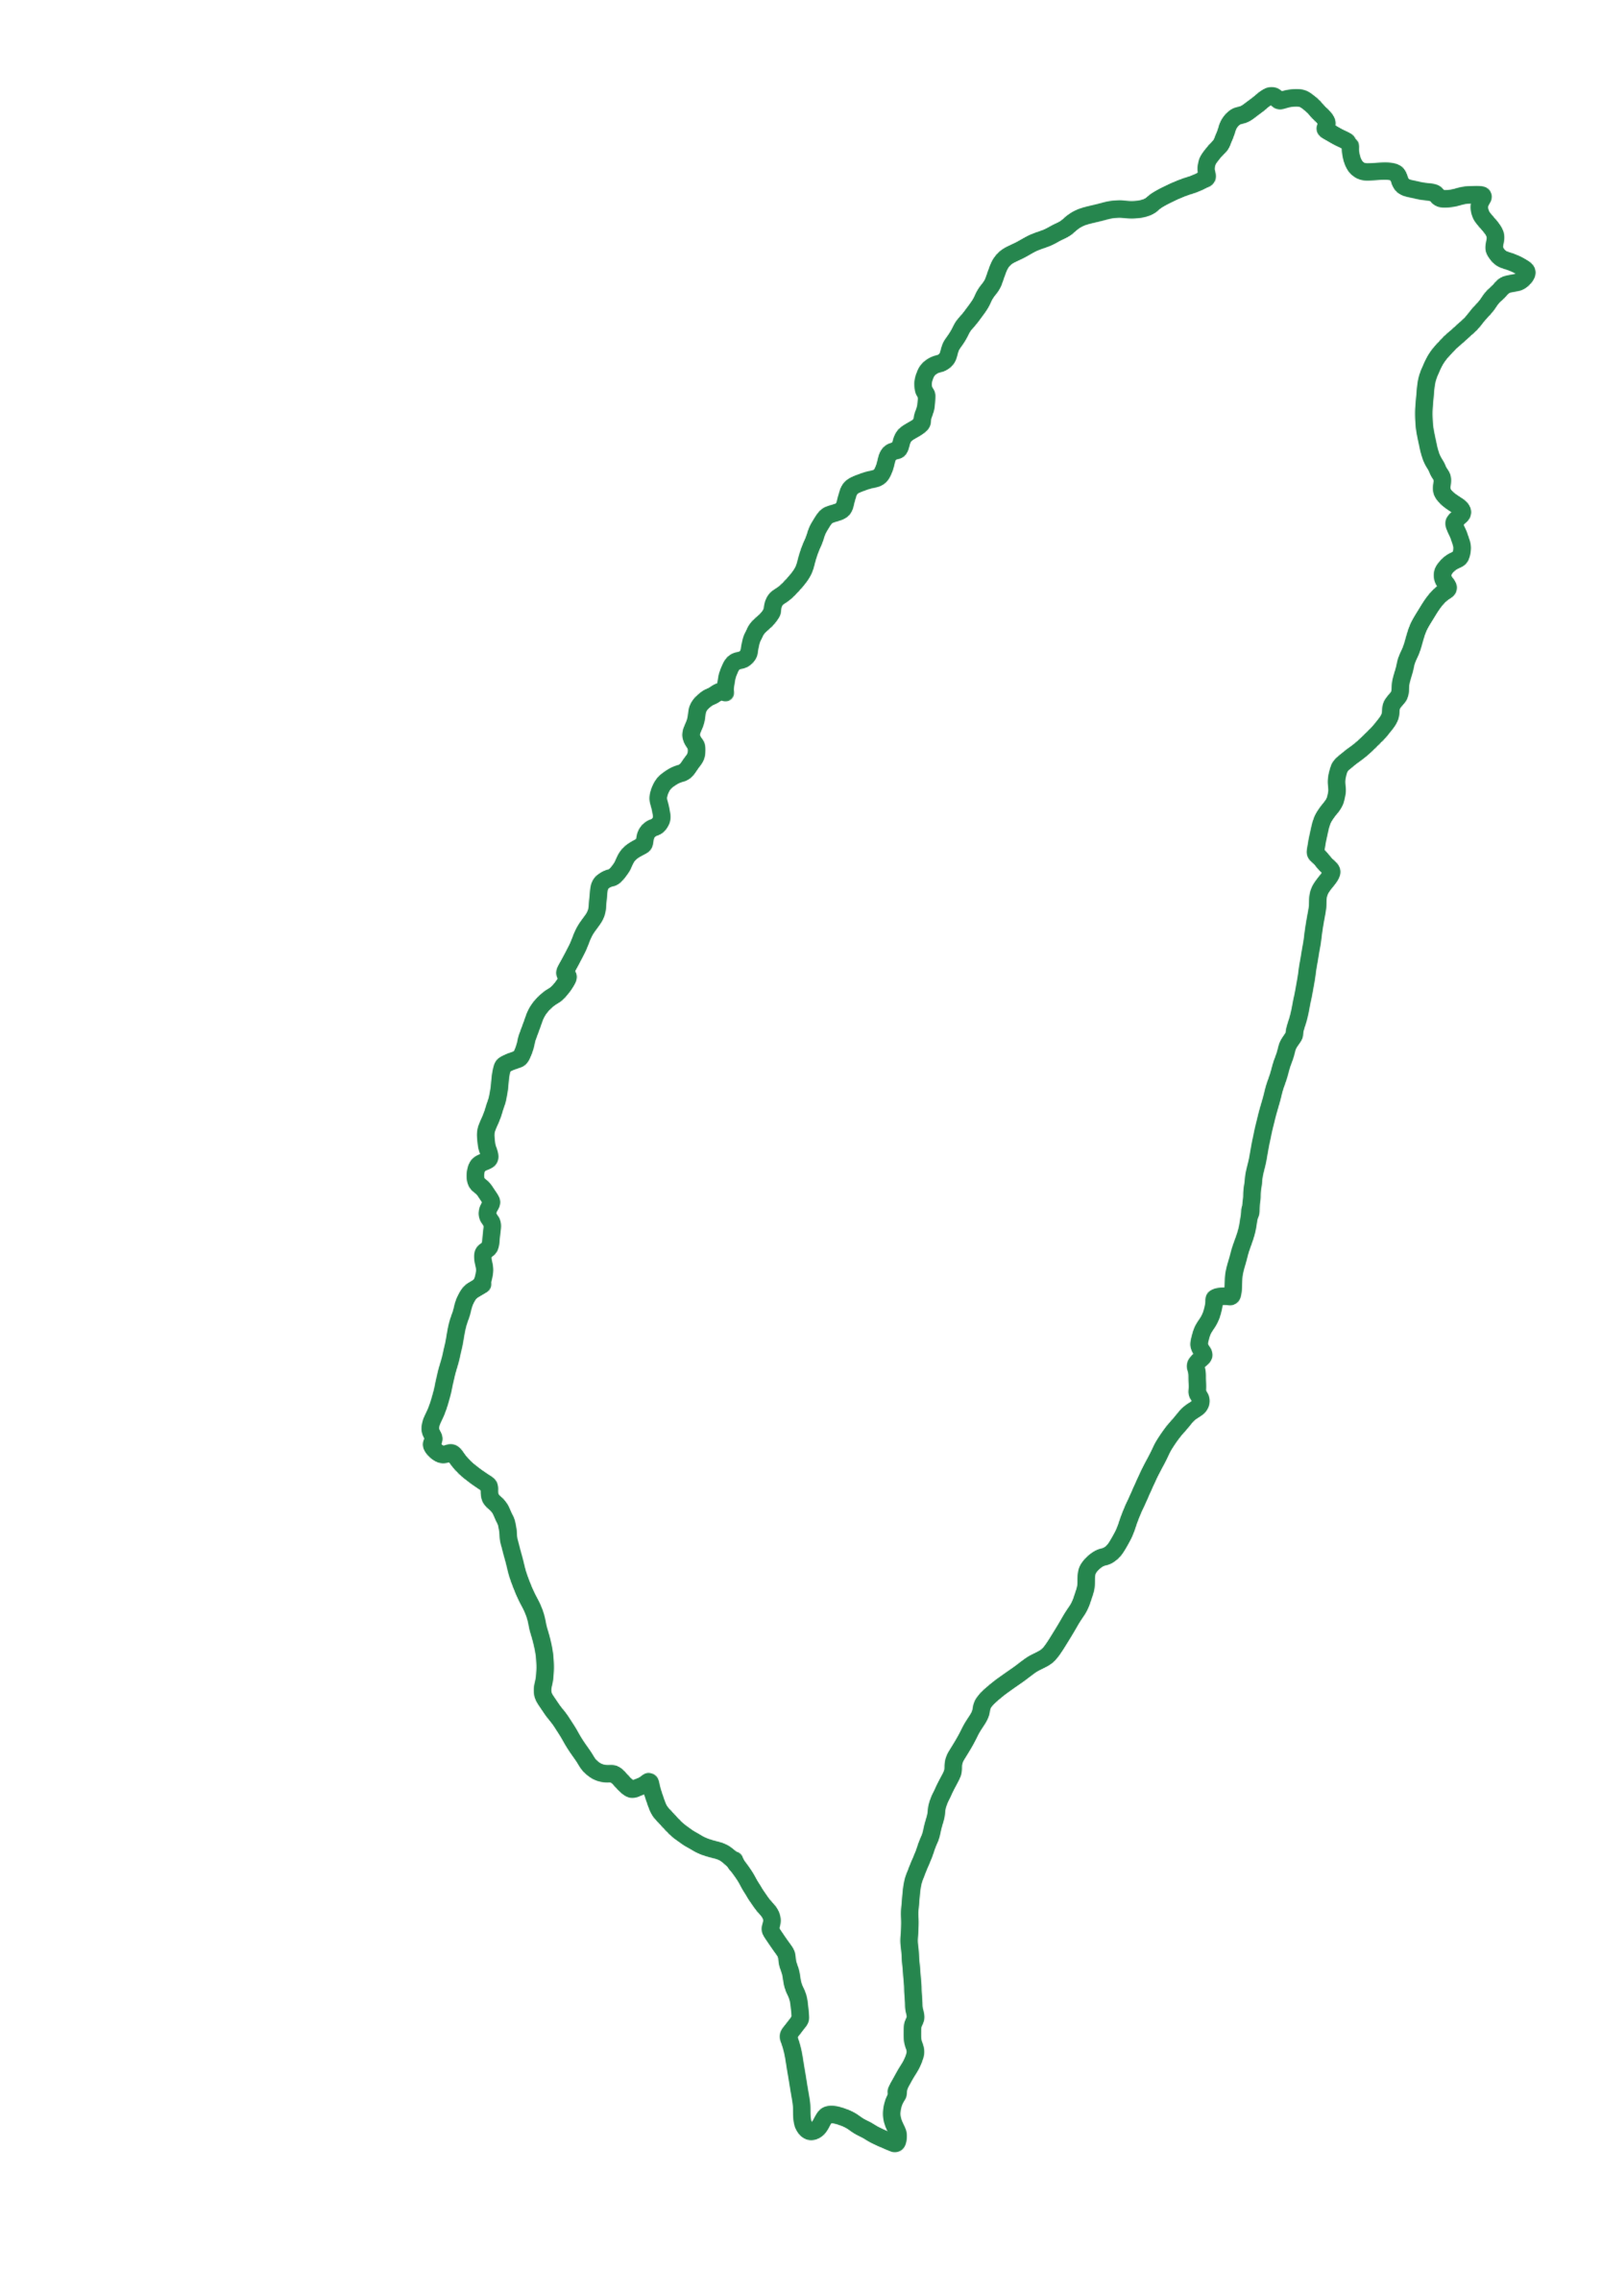
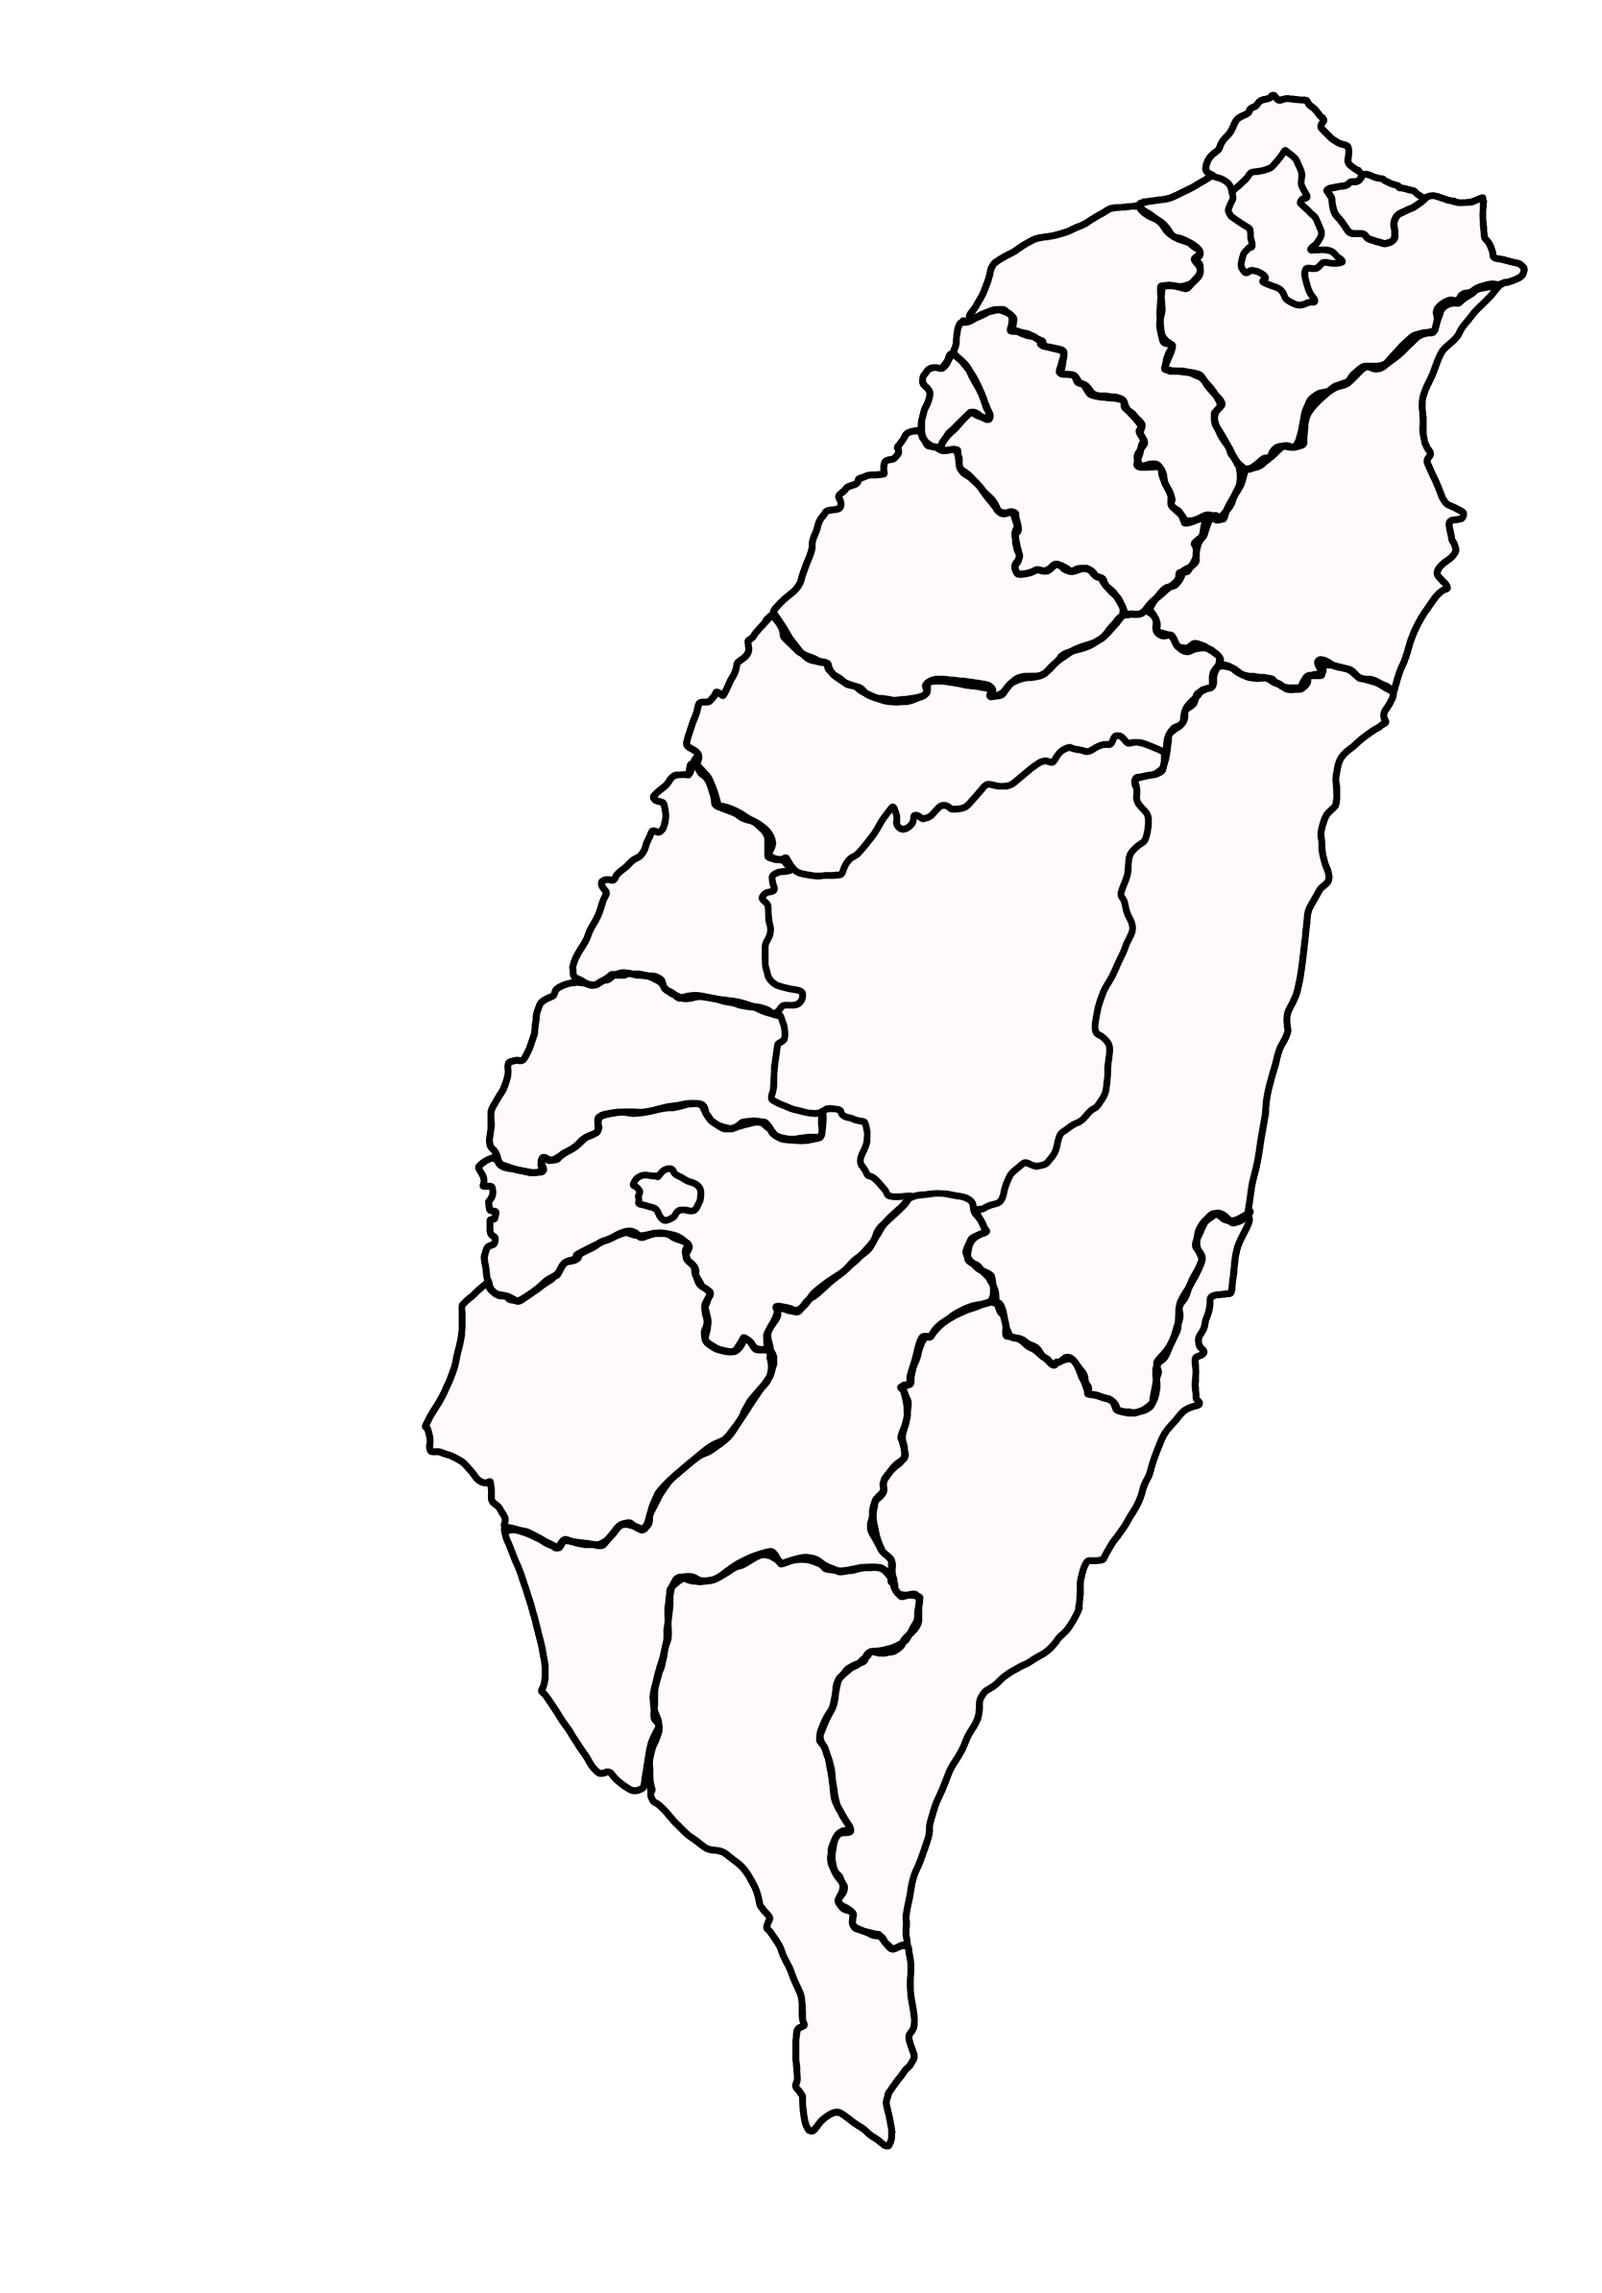
更新tabbar與Header

diff --git a/Running-Kid/page/tabbar.js b/Running-Kid/page/tabbar.js
@@ -5,11 +5,14 @@ import { View,Text,Image,TouchableOpacity} from 'react-native';
 import Indexp from './index/indexpage';
 import Mission from './mission/mission';
 import { Taiwan_k } from './knowlege/taiwan_k/taiwan_k';
+import Gift from './Gift/gift';
+import Sport_k from './knowlege/sport_k/sport_k';
+import Game from './Game/game';
 
 
 const Tab = createBottomTabNavigator();
 
-const Runbutton = ({run,onPress}) => (
+const Runbutton = ({run,onPress,focused}) => (
     <TouchableOpacity
         style={{
             top:-5,
@@ -30,7 +33,8 @@ const Runbutton = ({run,onPress}) => (
             }}
         >
              <Image 
-                    source={
+                   source={focused
+                    ? require('../assets/icon-go0.png') :
                     require('../assets/icon-go1.png')}
                     resizeMode='contain'
                     style={{
@@ -69,12 +73,12 @@ export default function Tabbars() {
         >
 
         <Tab.Screen name='Game' component={Game}  options={{
-            tabBarIcon:({focuse}) =>(
+            tabBarIcon:({focused}) =>(
                 <View>
                     <Image 
-                    source={focuse
-                    ? require('../assets/icon-p1.png') :
-                    require('../assets/icon-p2.png')}
+                    source={focused
+                    ? require('../assets/icon-p2.png') :
+                    require('../assets/icon-p0.png')}
                     resizeMode='contain'
                     style={{
                         width:40,
@@ -87,12 +91,12 @@ export default function Tabbars() {
             ),
         }} />
         <Tab.Screen name='Mission'component={Mission} options={{
-            tabBarIcon:({focuse}) =>(
+            tabBarIcon:({focused}) =>(
                 <View>
                     <Image 
-                    source={focuse
-                    ? require('../assets/icon-m0.png') :
-                    require('../assets/icon-m1.png')}
+                    source={focused
+                    ? require('../assets/icon-m1.png') :
+                    require('../assets/icon-m0.png')}
                     resizeMode='contain'
                     style={{
                         width:40,
@@ -112,13 +116,13 @@ export default function Tabbars() {
 } 
         />
 
-        <Tab.Screen name='Knowlege'component={Taiwan_k} options={{
-            tabBarIcon:({focuse}) =>(
+        <Tab.Screen name='Knowlege'component={Sport_k} options={{
+            tabBarIcon:({focused}) =>(
                 <View>
                     <Image 
-                    source={focuse
-                    ? require('../assets/icon-b0.png') :
-                    require('../assets/icon-b1.png')}
+                    source={focused
+                    ? require('../assets/icon-b1.png') :
+                    require('../assets/icon-b0.png')}
                     resizeMode='contain'
                     style={{
                         width:40,
@@ -129,13 +133,13 @@ export default function Tabbars() {
                 </View>
             ),
         }} />
-        <Tab.Screen name='Gift'component={Gift} options={{
-            tabBarIcon:({focuse}) =>(
+        <Tab.Screen name='Gift' component={Gift} options={{
+            tabBarIcon:({focused}) =>(
                 <View>
                     <Image 
-                    source={focuse
-                    ? require('../assets/icon-g0.png') :
-                    require('../assets/icon-g1.png')}
+                    source={focused
+                    ? require('../assets/icon-g1.png') :
+                    require('../assets/icon-g0.png')}
                     resizeMode='contain'
                     style={{
                         width:40,
@@ -152,23 +156,11 @@ export default function Tabbars() {
 };
 
 const styles =StyleSheet.create({
-    tabstyle:{
-        
-    }
-    
+   
 })
 
  
 
-function Game() {
-    return (
-      <View >
-        <Text>Game!</Text>
-      </View>
-    )
-  };
-  
- 
   function Sportknowlege() {
     return (
       <View >
@@ -177,10 +169,4 @@ function Game() {
     );
   }
 
-  function Gift() {
-    return (
-      <View>
-        <Text>Gift!</Text>
-      </View>
-    );
-  }
+ 

diff --git a/Running-Kid/page/index/indexpage.js b/Running-Kid/page/index/indexpage.js
@@ -1,42 +1,67 @@
-import React from "react";
-import { TouchableOpacity,StyleSheet,Image,ScrollView,ImageBackground,View,Text,SafeAreaView,navigation} from "react-native";
+import {React,useState} from "react";
+import { TouchableOpacity,StyleSheet,Image,ScrollView,ImageBackground,View,Text,SafeAreaView,navigation,Modal} from "react-native";
 import Textbox, { BOX } from './Components/TextBox'
 import Header from "../header";
 import Taiwan_k from "../knowlege/taiwan_k/taiwan_k";
+import space from './img/A0.png';
+import taipei from './img/A2.png';
+import taichung from './img/A9.png';
+
 
 
 export default function Indexp() {
+
+
+  const [act, areaAct] = useState();
+
+  let imageSource = space;
+  let today_mi="0";
+  let total_mi=0;
+
+  if (act === "taipei") {
+    imageSource = taipei;
+  }
   
   return (
-  <SafeAreaView >
-
+  <SafeAreaView>
+     
       <ScrollView
         showsVerticalScrollIndicator={false}
         bounces={false}
+        style={{backgroundColor:'#000000'}}
         stickyHeaderIndices={[0]}>
        <Header/>
-
+      
         <ImageBackground style={styles.backgroundimg} 
         source={require('../../assets/background.png')}
         >
         <View style={styles.textbox}>
-          <Text style={styles.text}>   今日里程數</Text>
+          <Text style={styles.text}>   今日里程數 {today_mi} 公里</Text>
         </View>
         
         <View style={styles.textbox}>
-          <Text style={styles.text}>   累積里程數</Text>
+          <Text style={styles.text}>   累積里程數 {total_mi} 公里</Text>
         </View> 
         <View style={styles.center}>
 
         <TouchableOpacity
-        onPress={() => navigation.navigate(Taiwan_k, {title: '台灣知識庫'})}
+        onPress={() => {areaAct("taipei")}}
         activeOpacity={0.8}
         >
 
-        <Image
+        <ImageBackground
           style={styles.taiwan} 
           source={require('./img/taiwan.png')}
+          >
+
+          
+          <Image
+          style={styles.taiwan_part} 
+          source={imageSource}
           />
+  
+
+          </ImageBackground>
         </TouchableOpacity>
 
         </View>
@@ -96,8 +121,16 @@ const styles = StyleSheet.create({
 
   taiwan:{
     flex:1,
-    width:400,
-    resizeMode:'contain',
+    width:300,
+    resizeMode:'cover',
+    justifyContent: 'center',
+    alignItems: 'stretch',
+  },
+
+  taiwan_part:{
+    flex:1,
+    width:300,
+    resizeMode:'cover',
     justifyContent: 'center',
     alignItems: 'stretch',
   },

diff --git a/Running-Kid/page/header.js b/Running-Kid/page/header.js
@@ -13,22 +13,29 @@ export default function Header() {
      style={styles.usrimg}
      ></Image>
      <Text style={{flex:5,justifyContent:"center"}}>
-       林子元
+       GiGi
      </Text>
+
+    <View style={styles.txt}>
       <Image
-     source={require('../assets/icon-point.png')}
-     style={styles.money}
-     ></Image>
-     <Text style={{justifyContent:"flex-start"}}>
-       70
-     </Text>
-     <Image
-     source={require('../assets/icon-money.png')}
-     style={styles.money}
-     ></Image>
-     <Text style={{justifyContent:"flex-start",marginRight:5}} >
-       60
-     </Text>
+      source={require('../assets/icon-point.png')}
+      style={styles.money}
+      ></Image>
+      <Text style={{justifyContent:"flex-start",marginRight:10,marginLeft:5}}>
+      70
+      </Text>
+    </View>
+
+    <View style={styles.txt}>
+      <Image
+      source={require('../assets/icon-money.png')}
+      style={styles.money}
+      ></Image>
+      <Text style={{justifyContent:"flex-start",marginRight:10,marginLeft:5}} >
+        60
+      </Text>
+    </View>
+
      </View>
    </View>
     );
@@ -43,24 +50,40 @@ export default function Header() {
     backgroundColor:'#FFFAEE',
     borderBottomColor:'#dcdcdc',
     flexDirection:"row",
+    borderBottomWidth:2
     
   },
   
   usrimg:{
-    width:100,
+    width:50,
     height:50,
     resizeMode:'contain',
     justifyContent:'flex-start',
+    borderRadius:40,
     flex:2
   },
 
   money:{
-    width:30,
-    height:30,
-    resizeMode:'contain',
-    justifyContent:'center',
+    width:25,
+    height:25,
+    resizeMode:"contain",
+    justifyContent:"flex-start",
     alignItems:"center",
-    flex:1.5
+    flex:1
+  },
+
+  txt:{
+    flexDirection:"row",
+    flex:2.5,
+    width:400,
+    height:35,
+    justifyContent:"center",
+    alignItems:"center",
+    backgroundColor:"#ffffff",
+    borderRadius:25,
+    borderWidth:1,
+    borderColor:"#dadada",
+    marginRight:10
   }
   })
  
